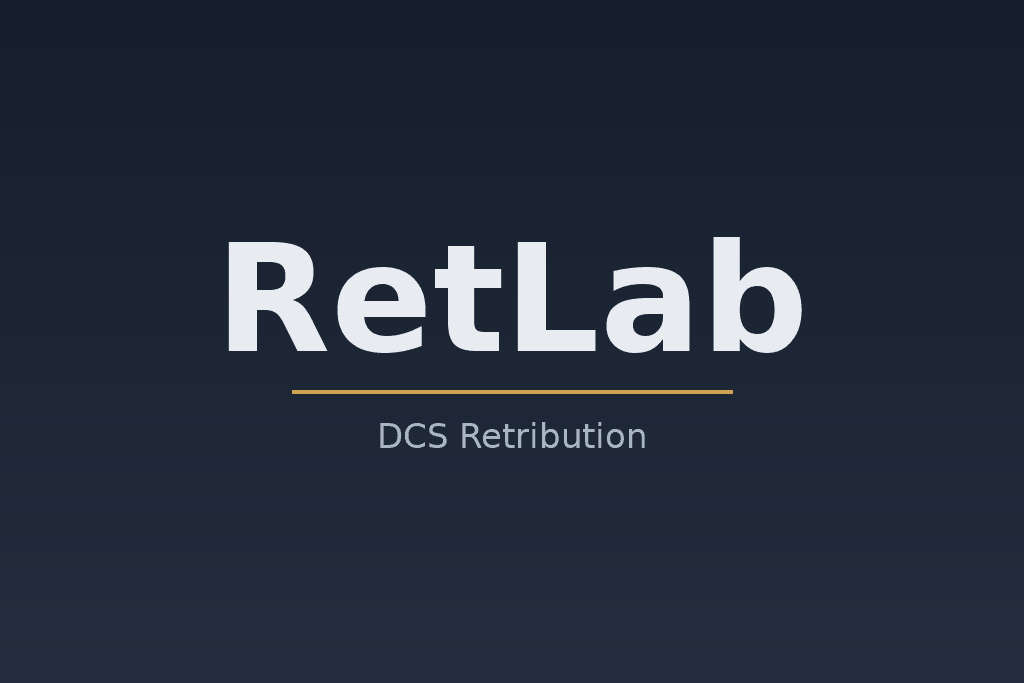
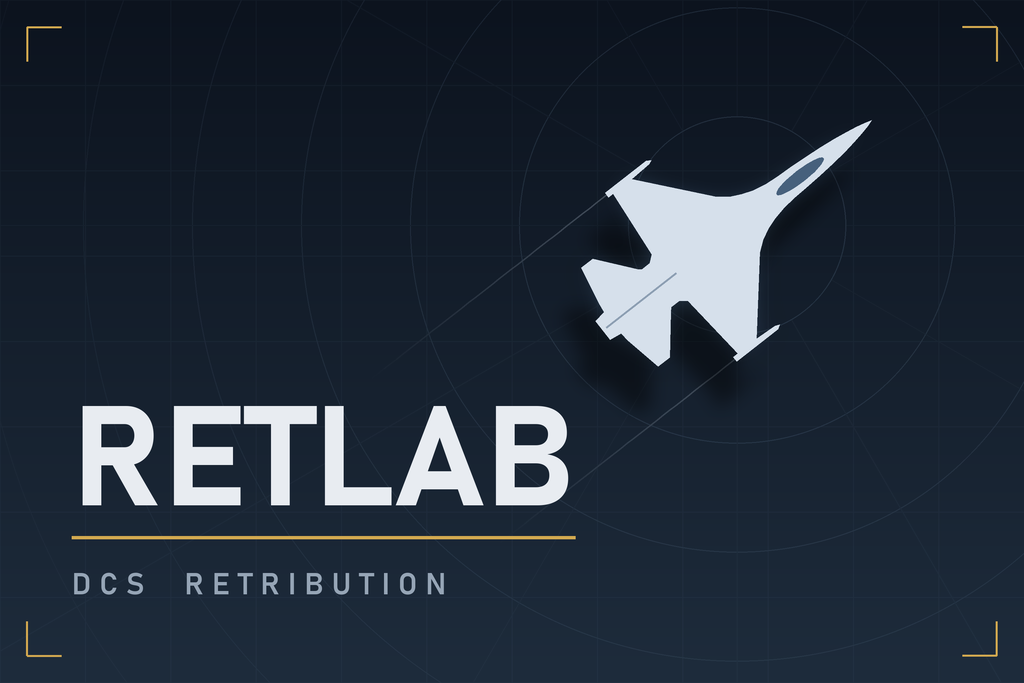
New RetLab startup splash and briefing picture
Both show an F-16, drawn to scale, over a chart grid with the RetLab
name. The splash replaces upstream's Ghost of Kyiv artwork, so the About
box drops that artist's credit. The briefing picture keeps its drop-in
override (briefing.png or briefing.jpg in Saved Games\DCS\Retribution).

diff --git a/qt_ui/windows/QLiberationWindow.py b/qt_ui/windows/QLiberationWindow.py
@@ -642,10 +642,6 @@ class QLiberationWindow(QMainWindow):
             'Contains information from <a href="https://osmdata.openstreetmap.de/" style="color: #ffffff">OpenStreetMap © OpenStreetMap contributors</a>, which is made available here under the <a href="https://opendatacommons.org/licenses/odbl/1-0/" style="color: #ffffff">Open Database License (ODbL)</a>.<br />'
             '<a href="https://download.geofabrik.de/index.html/" style="color: #ffffff">OpenStreetMap Data Extracts from Geofabrik</a><br />'
             '<a href="https://www.earthdata.nasa.gov/" style="color: #ffffff">NASA EarthData</a><br />'
-            + "<h4>Splash Screen  :</h4>"
-            + "Artwork by Andriy Dankovych (CC BY-SA)"
-            " <a href='https://www.facebook.com/AndriyDankovych' style='color:white'>"
-            "[https://www.facebook.com/AndriyDankovych]</a>"
         )
         about = QMessageBox()
         about.setWindowTitle("About DCS Retribution")

diff --git a/docs/dev/retlab-ingame-pass-checklist.md b/docs/dev/retlab-ingame-pass-checklist.md
@@ -8775,9 +8775,11 @@ Unit-tested (`test_instant_naval_move.py`, `test_tgo_movement_routes.py`); never
 
 Built 2026-09-29. Unit-tested (`test_briefing_image.py`); never loaded in DCS.
 
-- **Setup:** generate any mission with no `briefing.png` in `Saved Games\DCS\Retribution`.
-  Load it in DCS. Then copy a picture there as `briefing.png`, generate again, load it.
-- **Pass:** the first load shows the dark RetLab picture; the second shows yours.
+- **Setup:** start RetLab. Generate any mission with no `briefing.png` in
+  `Saved Games\DCS\Retribution`. Load it in DCS. Then copy a picture there as
+  `briefing.png`, generate again, load it.
+- **Pass:** the app's startup splash and the first load both show the dark RetLab picture
+  with the F-16; the second load shows yours.
 - **Fail signatures:** the old Ghost of Kyiv picture (the change is not in the build); a
   blank picture box (DCS could not read the file — try a JPEG).
 

diff --git a/README.md b/README.md
@@ -176,7 +176,8 @@ Most of this is opt-in. Full list with toggles, defaults and known limitations:
   The package window's **Package route** button lists it.
 - Insert NAV point in a flight's Waypoints tab adds a point beside any waypoint with a leg
   next to it. On the package route it asks whether the point is for the whole package.
-- A generated mission loads with a RetLab picture on the briefing screen. To use your own,
+- RetLab starts with its own splash, and a generated mission loads with a RetLab picture on
+  the briefing screen. To use your own mission picture,
   save it as `briefing.png` or `briefing.jpg` in `Saved Games\DCS\Retribution`.
 - The debrief grades each flight: on time at the target or not, the package target, kills,
   shots and hits, losses, and your fuel on landing against the jet's reserve. Grades run Unsat, Below average,

diff --git a/docs/dev/retlab-features.md b/docs/dev/retlab-features.md
@@ -11115,7 +11115,9 @@ picture, and a player can replace it by dropping `briefing.png` or `briefing.jpg
 ### Constraints
 
 - No setting: the file is the switch (the §42/§43 precedent).
-- The app's startup splash still reads `splash_screen.png`; only the mission picture changed.
+- The app's startup splash (`resources/ui/splash_screen.png`) is RetLab's own too since
+  2026-09-29: the same look, an F-16 drawn to scale. It has no drop-in override. The About
+  box no longer credits upstream's splash artist.
 - Blue only. The red briefing has no picture, as before.
 
 ## §108 — Flight report cards

diff --git a/changelog.d/retlab-splash-images.feature.md b/changelog.d/retlab-splash-images.feature.md
@@ -1,0 +1,1 @@
+* **[UI]** New RetLab startup splash and mission briefing picture: an F-16 over a chart grid.
